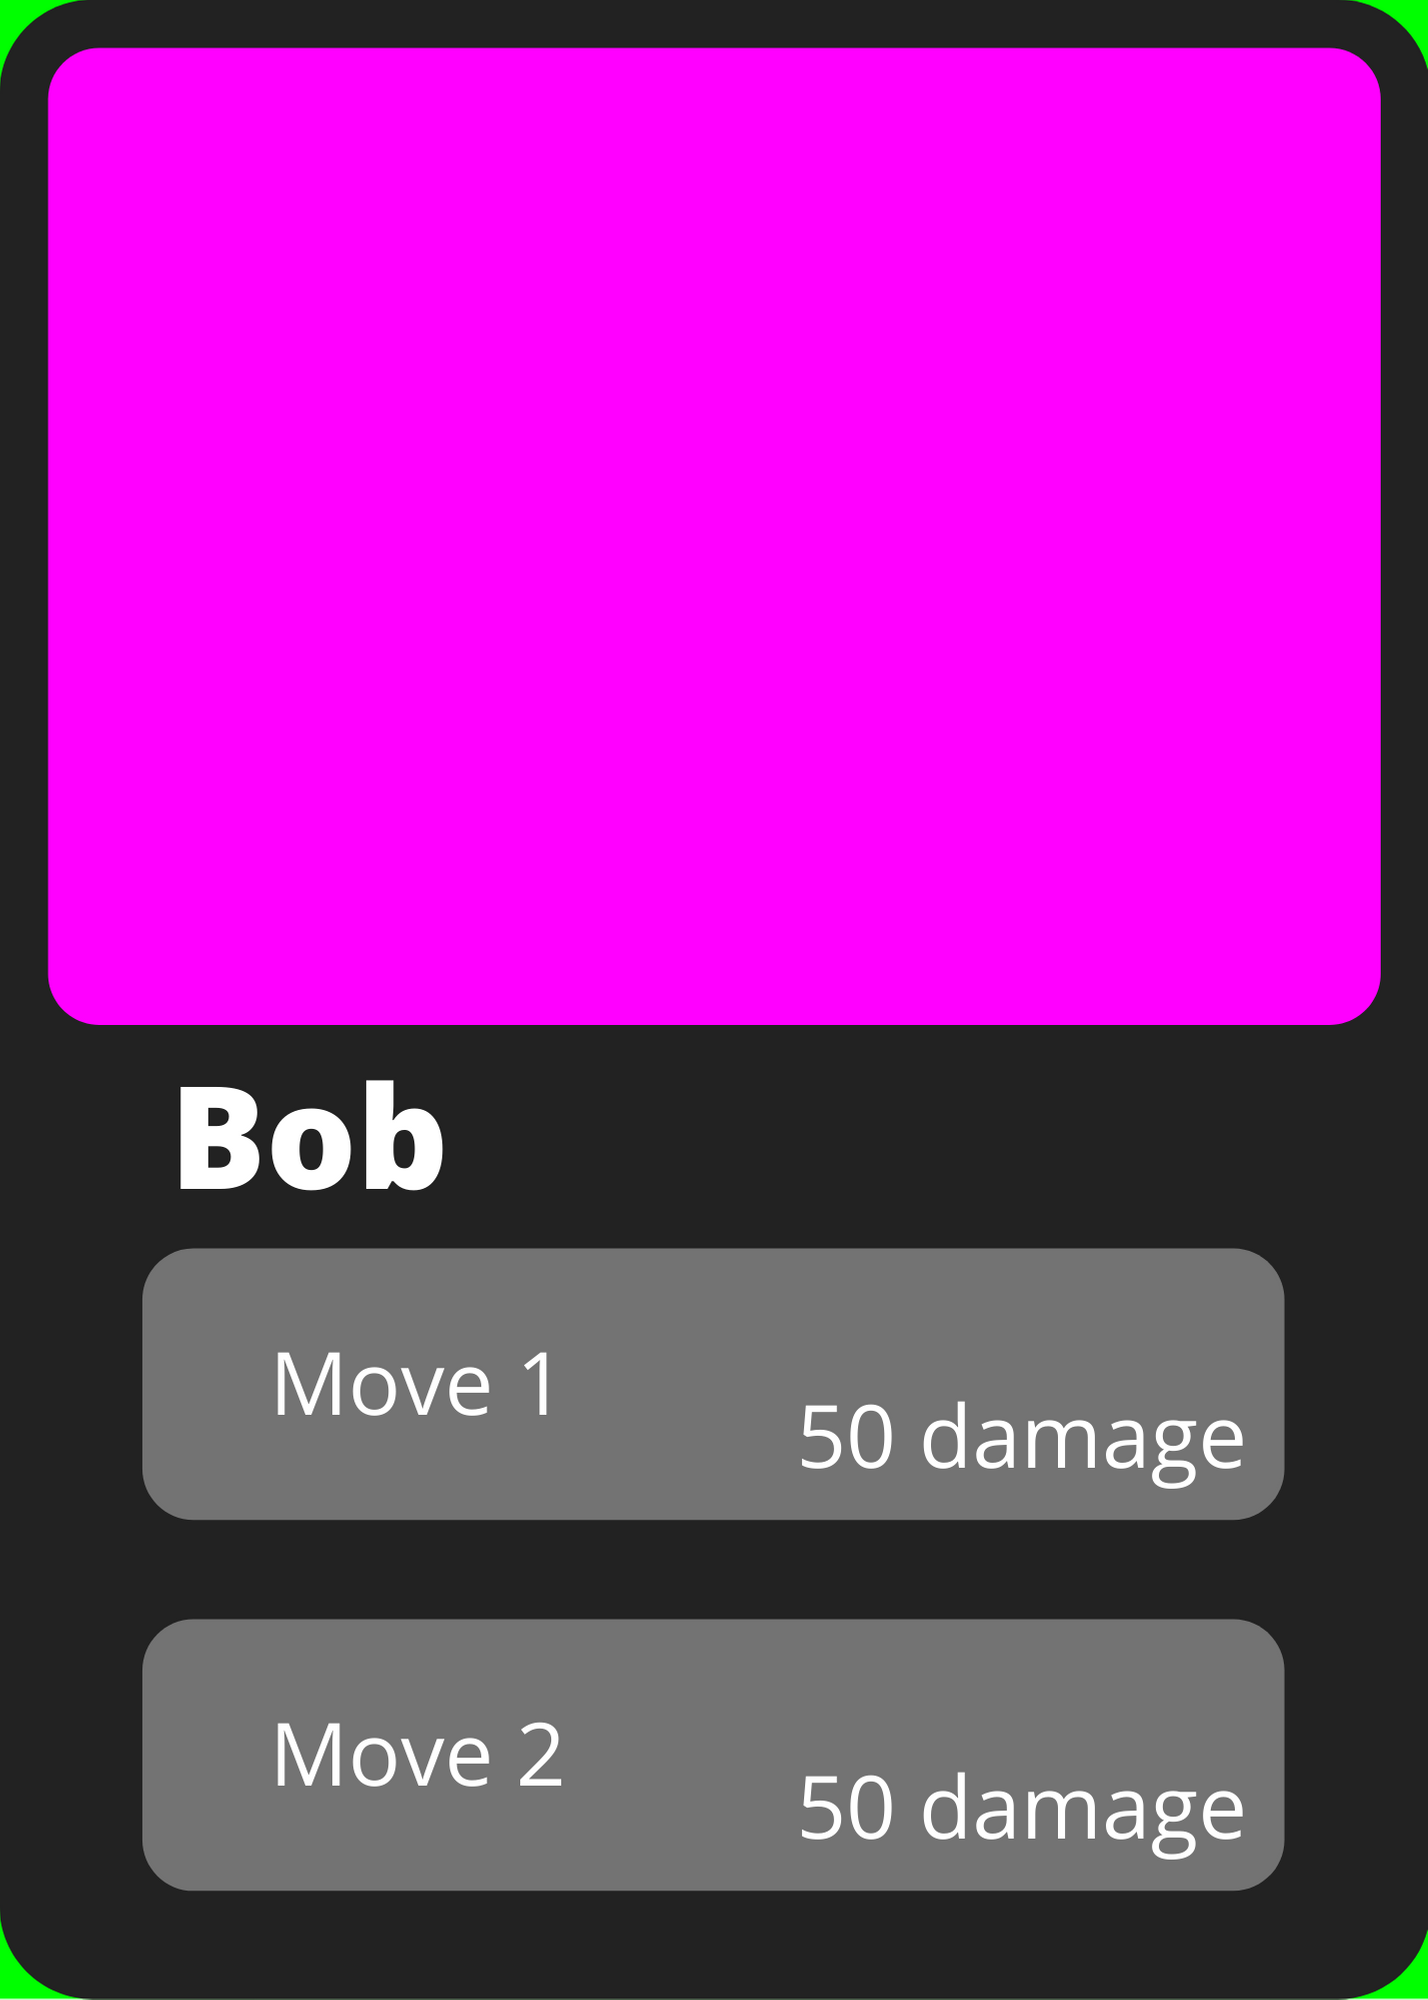
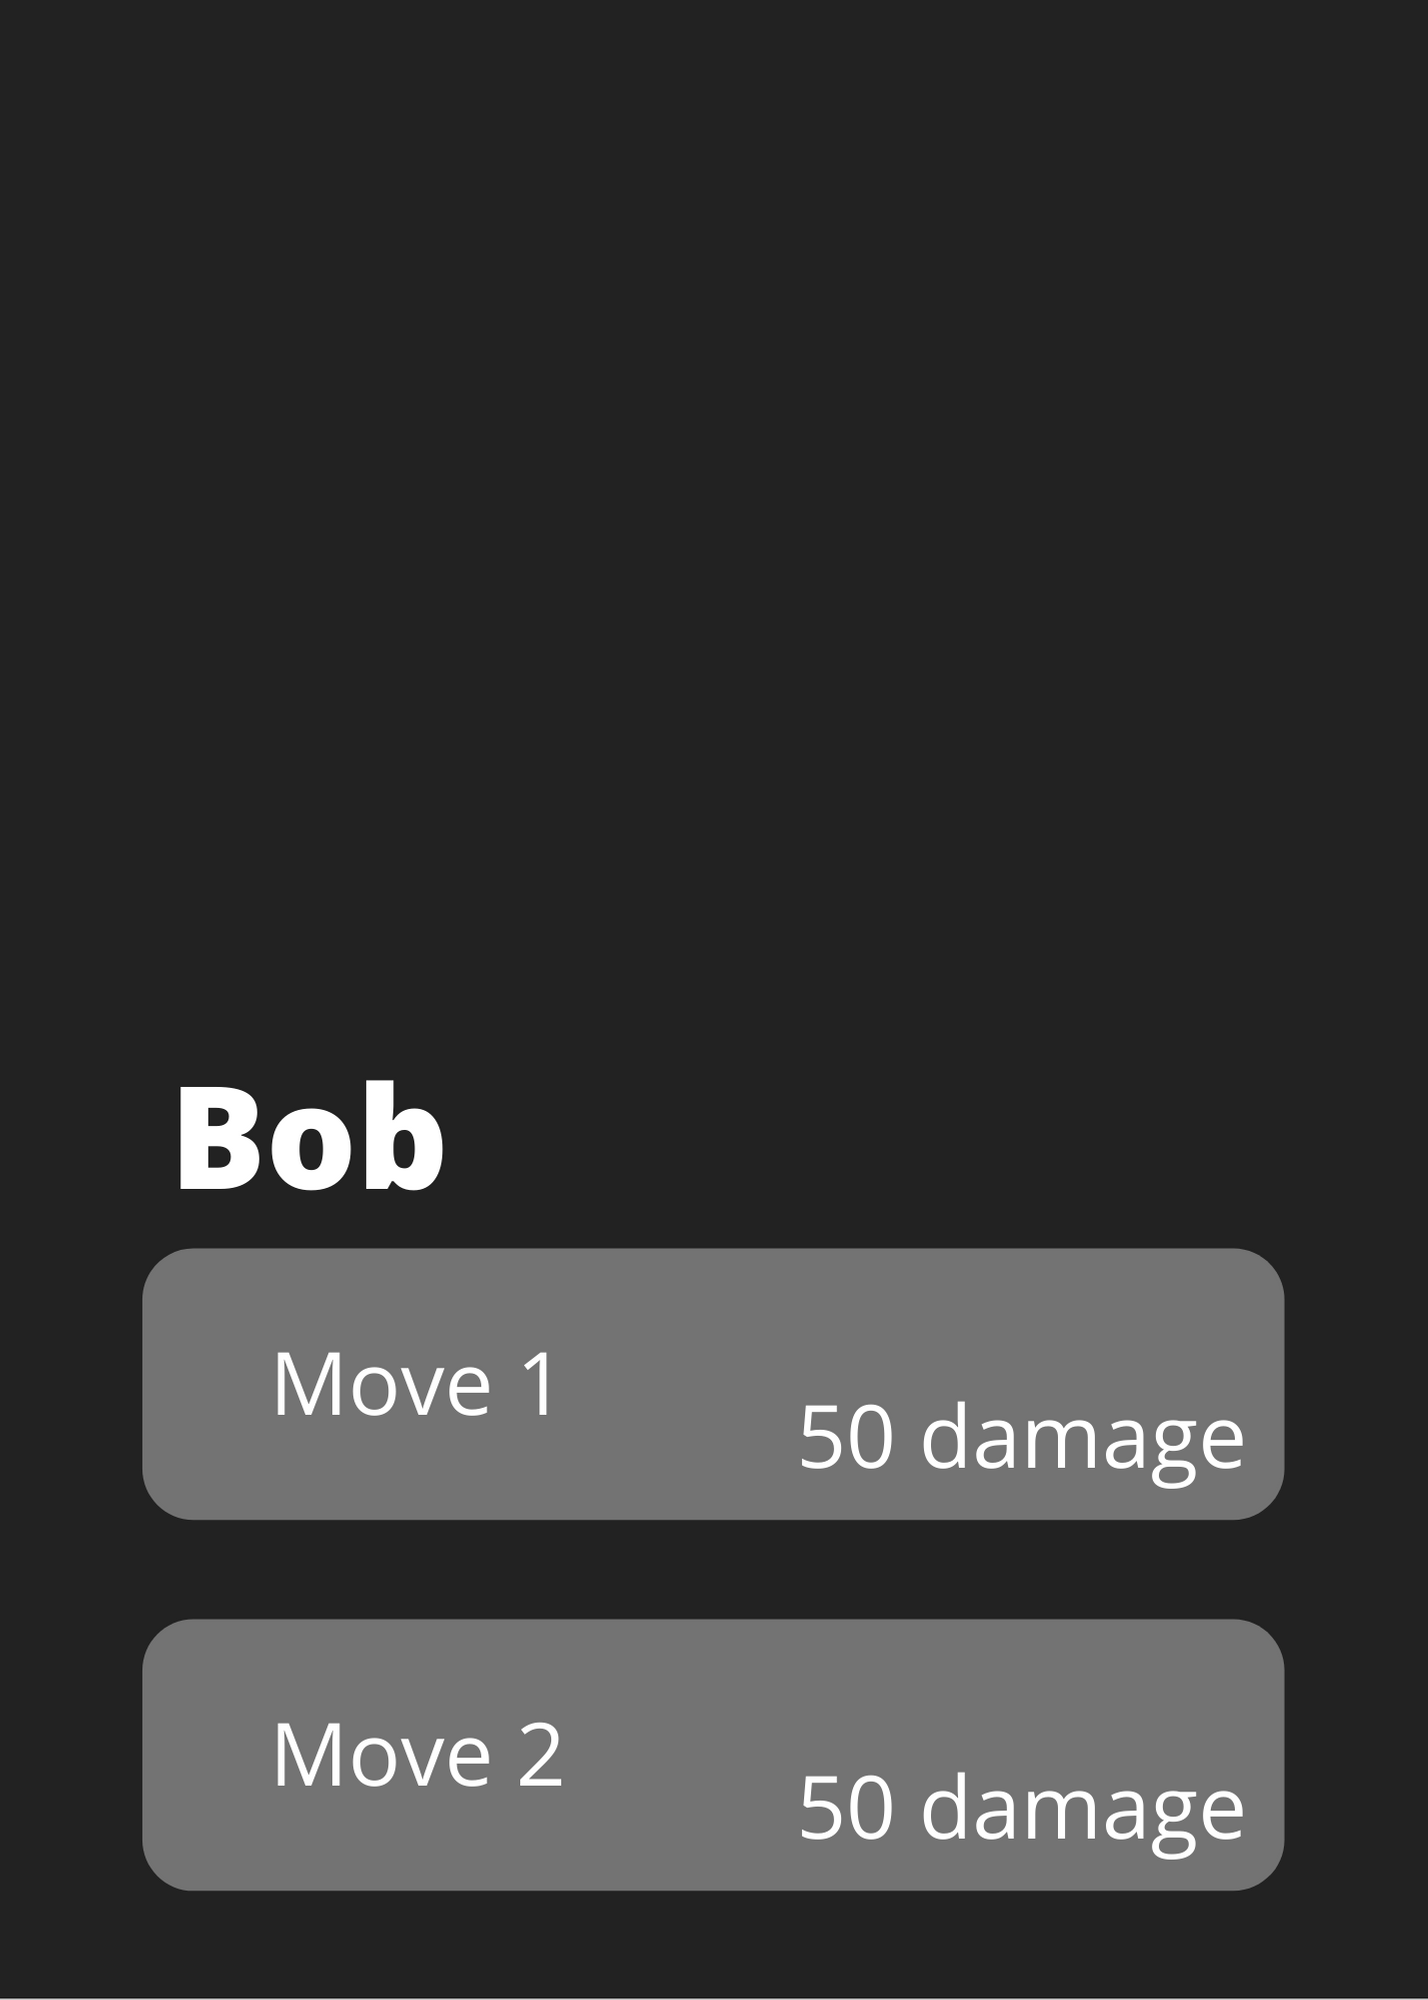
Improved shaders.

diff --git a/src/Card.java b/src/Card.java
@@ -6,43 +6,68 @@ import ingenium.utilities.RenderBuffer;
 import ingenium.world.Camera3D;
 
 public class Card extends Mesh3D {
-    public static final int cardResolution[] = { 500, 500 };
-    public static Card allCards[];
+    private static class CardData {
+        public String obj;
+        public String diffuse;
+        public String specular;
+        public String parallax;
+        public Mesh3D meshes[];
 
-    private RenderBuffer rbo[] = new RenderBuffer[2];
+        public CardData(String obj, String diffuse, String specular, String parallax, Mesh3D msh[]) {
+            this.obj = obj;
+            this.diffuse = diffuse;
+            this.specular = specular;
+            this.parallax = parallax;
+            this.meshes = msh;
+        }
+    }
+
+    public static final int cardResolution[] = { 500, 500 };
+    public static CardData allCards[];
+
+    private RenderBuffer rbo;
     private Mesh3D meshes[];
     // private Mesh2D cardSurface;
     private Camera3D camera = new Camera3D(1.5f, new Vec3(0, 1, 4), new Vec3(0, Math.PI), 90);
 
-    public Card(GL2 gl, String cardTexturePath, String cardAlphaMask, Mesh3D meshes[]) {
+    public Card(GL2 gl, String cObj, String cTexturePath, String cSpecMask, String cAlphaMask, Mesh3D meshes[]) {
         super();
-        this.rbo[0] = RenderBuffer.createRenderTexture(gl, cardResolution[0], cardResolution[1]);
-        // this.rbo[1] = RenderBuffer.createRenderTexture(gl, cardResolution[0], cardResolution[1]);
+        this.rbo = RenderBuffer.createRenderTexture(gl, cardResolution[0], cardResolution[1]);
+        // this.rbo[1] = RenderBuffer.createRenderTexture(gl, cardResolution[0],
+        // cardResolution[1]);
         this.meshes = meshes;
         this.scale = new Vec3(1, 1, 1.5);
-        this.rotation = new Vec3(-Math.PI / 2f);
+        // this.rotation = new Vec3(-Math.PI / 2f);
+
         // this.cardSurface = new Mesh2D();
         // this.cardSurface.make(gl, Ingenium.NO_VALUE);
         // this.cardSurface.getMaterial().setDiffuseTexture(this.rbo[0].getTextures()[0]);
 
-        this.make(gl, "./resource/planent.obj", cardTexturePath, cardAlphaMask, Ingenium.NO_VALUE);
-        this.material.setNormalTexture(this.rbo[0].getTextures()[0]);
-        this.material.setShininess(0.1);
+        this.make(gl, cObj, cTexturePath, cSpecMask, Ingenium.NO_VALUE, cAlphaMask);
+        this.material.setNormalTexture(this.rbo.getTextures()[0]);
     }
 
-    public RenderBuffer[] getRbo() {
+    public RenderBuffer getRbo() {
         return rbo;
     }
+
     public Mesh3D[] getMeshes() {
         return meshes;
     }
+
     public Camera3D getCamera() {
         return camera;
     }
 
     public static void init(GL2 gl) {
-        allCards = new Card[] { new Card(gl, "./resource/alien/card.png", "",
+        allCards = new CardData[] { new CardData("./resource/planent.obj", "./resource/alien/card.png",
+                Ingenium.NO_VALUE, "./resource/alien/s.png",
                 new Mesh3D[] { Mesh3D.createAndMake(gl, "./resource/alien/Alien.obj", "./resource/alien/b.png") }) };
+    }
+
+    public static Card getRandomCard(GL2 gl) {
+        CardData cd = allCards[(int) ((float) allCards.length * Math.random())];
+        return new Card(gl, cd.obj, cd.diffuse, cd.specular, cd.parallax, cd.meshes);
     }
 
 }

diff --git a/src/ingenium/mesh/Mesh3D.java b/src/ingenium/mesh/Mesh3D.java
@@ -75,8 +75,9 @@ public class Mesh3D extends Mesh<Vec3, Vec3> {
      * @param specularPath the path to the specular texture
      * @param normalPath   the path to the normal texture
      */
-    public void make(GL2 gl, String objPath, String diffusePath, String specularPath, String normalPath) {
-        setTexture(gl, diffusePath, specularPath, normalPath);
+    public void make(GL2 gl, String objPath, String diffusePath, String specularPath, String normalPath, 
+        String parallaxPath) {
+        setTexture(gl, diffusePath, specularPath, normalPath, parallaxPath);
         Geometry.Object object3d = Geometry.loadFromObjData(objPath, true, useGeometryReferenceCache,
                 useGeometryValueCache);
         if (object3d.isReference()) {
@@ -88,6 +89,18 @@ public class Mesh3D extends Mesh<Vec3, Vec3> {
         this.numVerts = object3d.getNumVerts();
         load(gl);
         Geometry.getReferenceCache().checkAddCache(objPath, new Integer[] { mVBO, mVAO, numVerts });
+    }
+
+    public void make (GL2 gl, String objPath, String diffusePath, String specularPath, String normalPath) {
+        make(gl, objPath, diffusePath, specularPath, normalPath, Ingenium.NO_VALUE);
+    }
+
+    public void make (GL2 gl, String objPath, String diffusePath, String specularPath) {
+        make(gl, objPath, diffusePath, specularPath, Ingenium.NO_VALUE);
+    }
+
+    public void make (GL2 gl, String objPath, String diffusePath) {
+        make(gl, objPath, diffusePath, Ingenium.NO_VALUE);
     }
 
     /**

diff --git a/src/ingenium/mesh/Mesh.java b/src/ingenium/mesh/Mesh.java
@@ -278,7 +278,8 @@ public class Mesh<positionType, rotationType> extends Position<positionType, rot
      * @param specularPath the path to the specular texture
      * @param normalPath   the path to the normal texture
      */
-    public void setTexture(GL2 gl, String diffusePath, String specularPath, String normalPath) {
+    public void setTexture(GL2 gl, String diffusePath, String specularPath, String normalPath, String 
+        parallaxPath) {
         if (!diffusePath.equals(Ingenium.NO_VALUE))
             material.setDiffuseTexture(findAndLoadTexture(gl, diffusePath, GL2.GL_TEXTURE0, useTextureReferenceCache));
         if (!specularPath.equals(Ingenium.NO_VALUE))
@@ -288,6 +289,8 @@ public class Mesh<positionType, rotationType> extends Position<positionType, rot
             material.setNormalTexture(findAndLoadTexture(gl, normalPath, GL2.GL_TEXTURE2, useTextureReferenceCache));
         else
             material.setNormalTexture(createColorTexture(gl, 0f, 0f, 1f, 1f));
+        if (!parallaxPath.equals(Ingenium.NO_VALUE))
+            material.setParallaxTexture(findAndLoadTexture(gl, parallaxPath, GL2.GL_TEXTURE3, useTextureReferenceCache));
     }
 
     /**

diff --git a/src/App.java b/src/App.java
@@ -9,7 +9,7 @@ import ingenium.world.*;
 import ingenium.world.light.*;
 
 public class App extends Ingenium {
-    Player player = new Player(1);
+    Player player = new Player(3);
     RenderBuffer postBuffer;
     Mesh2D renderSurface;
 
@@ -65,7 +65,7 @@ public class App extends Ingenium {
         renderSurface.make(gl, Ingenium.NO_VALUE);
         renderSurface.getMaterial().setDiffuseTexture(postBuffer.getTextures()[0]);
 
-        player.setRandomCards(Card.allCards);
+        player.setRandomCards(gl);
         dLight.setDirection(new Vec3(-0.4, -1, -0.4));
     }
 
@@ -76,7 +76,7 @@ public class App extends Ingenium {
 
         clear(gl);
         for (Card c : player.getCards()) {
-            RenderBuffer.renderToRenderTexture(gl, c.getRbo()[0]);
+            RenderBuffer.renderToRenderTexture(gl, c.getRbo());
             Mesh3D.renderAll(gl, shader3D, c.getCamera(), dLight, c.getMeshes(), p);
         }
         RenderBuffer.renderToRenderTexture(gl, postBuffer);

diff --git a/src/ingenium/mesh/Mesh2D.java b/src/ingenium/mesh/Mesh2D.java
@@ -70,7 +70,7 @@ public class Mesh2D extends Mesh<Vec2, Float> {
     }
 
     public void make(GL2 gl, String path, String diffusePath) {
-        setTexture(gl, diffusePath, Ingenium.NO_VALUE, Ingenium.NO_VALUE);
+        setTexture(gl, diffusePath, Ingenium.NO_VALUE, Ingenium.NO_VALUE, Ingenium.NO_VALUE);
         Geometry.Object object3d = Geometry.loadFromObjData2D(path, true, useGeometryReferenceCache,
                 useGeometryValueCache);
         if (object3d.isReference()) {
@@ -84,7 +84,7 @@ public class Mesh2D extends Mesh<Vec2, Float> {
     }
 
     public void make(GL2 gl, String diffusePath) {
-        setTexture(gl, diffusePath, Ingenium.NO_VALUE, Ingenium.NO_VALUE);
+        setTexture(gl, diffusePath, Ingenium.NO_VALUE, Ingenium.NO_VALUE, Ingenium.NO_VALUE);
         Geometry.Object object3d = Geometry.make2DQuad();
         if (object3d.isReference()) {
             this.mVBO = object3d.getVBO();

diff --git a/src/Player.java b/src/Player.java
@@ -1,3 +1,5 @@
+import com.jogamp.opengl.GL2;
+
 import ingenium.math.Vec3;
 
 public class Player {
@@ -16,12 +18,14 @@ public class Player {
     }
 
     public void update (ingenium.Time time) {
+        cards[0].setRotation(cards[0].getRotation().add(new Vec3(0.1, 0.1).mulFloat(time.getDeltaTime())));
         cards[0].getMeshes()[0].setRotation(cards[0].getMeshes()[0].getRotation().add(new Vec3(0, 1, 0).mulFloat(time.getDeltaTime())));
     }
 
-    public void setRandomCards (Card allCards[]) {
+    public void setRandomCards (GL2 gl) {
         for (int i = 0; i < cards.length; i++) {
-            cards[i] = allCards[(int)((float) allCards.length * Math.random())];
+            cards[i] = Card.getRandomCard(gl);
+            cards[i].setPosition(new Vec3(i * 2));
         }
     }
 }

diff --git a/src/ingenium/mesh/Material.java b/src/ingenium/mesh/Material.java
@@ -194,6 +194,8 @@ public class Material {
         gl.glBindTexture(GL2.GL_TEXTURE_2D, getSpecularTexture());
         gl.glActiveTexture(GL2.GL_TEXTURE2);
         gl.glBindTexture(GL2.GL_TEXTURE_2D, getNormalTexture());
+        gl.glActiveTexture(GL2.GL_TEXTURE3);
+        gl.glBindTexture(GL2.GL_TEXTURE_2D, getParallaxTexture());
     }
 
     /**
